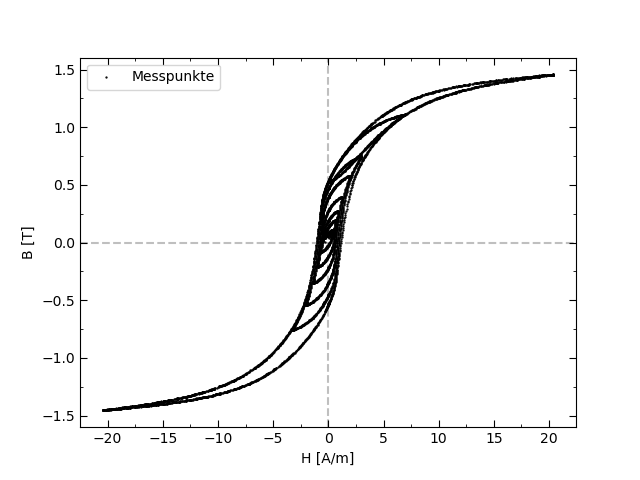
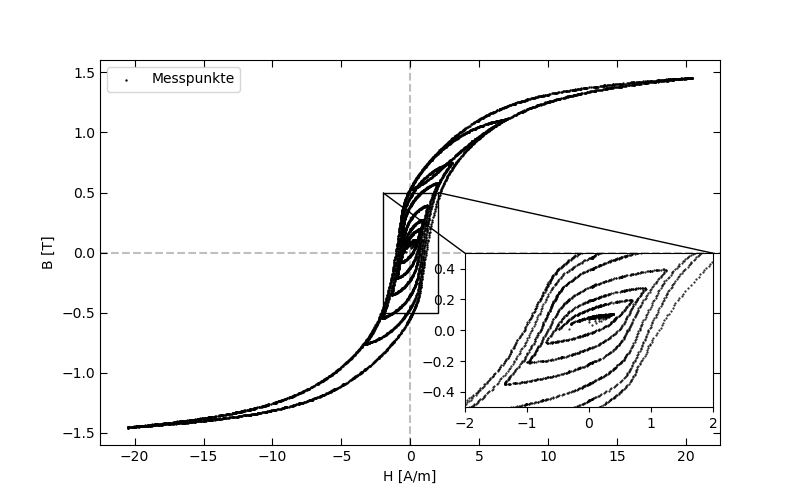
subplots und pfeile

diff --git a/39/Auswertung/Kern3_entmag.py b/39/Auswertung/Kern3_entmag.py
@@ -3,6 +3,9 @@ from importer import Messreihe
 from scatterplt import ScatterPlotter
 import matplotlib.pyplot as plt
 import numpy as np
+from mpl_toolkits.axes_grid1.inset_locator import inset_axes, mark_inset
+from matplotlib.ticker import AutoMinorLocator
+
 
 def symmetric(dataX, dataY, symPX=1000):
     dataX = np.asarray(dataX)
@@ -72,7 +75,21 @@ DataH = Data3.iloc[:, 1]
 DataB = Data3.iloc[:,2] - B_Shift
 print('Symmetrisierungsfaktor Ringkern 1: ' + str(B_Shift) + 'T')
 
-plt3 = ScatterPlotter(xlabel='H [A/m]', ylabel='B [T]')
-plt3.plot(DataH, DataB, grid=False, label='Messpunkte', xlim=False, ylim=False, size=0.4)
-plt3.save(img_path / 'Hyster3_entmag.png')
-plt3.show()
+
+fig, plt3 = plt.subplots(figsize=(8,5))
+plt3.scatter(DataH, DataB, label='Messpunkte', c='black', s=0.5, zorder=4)
+plt3.axvline(x=0, color='grey', linestyle='--', zorder=1, alpha=0.5)
+plt3.axhline(y=0, color='grey', linestyle='--', zorder=1, alpha=0.5)
+plt3.set_xlabel('H [A/m]')
+plt3.set_ylabel(ylabel='B [T]')
+plt3.tick_params(axis='both', which='minor', direction='in', right=True, top=True)
+plt3.tick_params(axis='both', which='major', direction='in', right=True, top=True, length=5)
+plt3.legend()
+
+plt3in = inset_axes(plt3, width='40%', height='40%', loc='lower right',bbox_to_anchor=(0, 0.08, 1, 1), bbox_transform=plt3.transAxes)
+plt3in.scatter(DataH, DataB, c='black', marker='.', s=1)
+plt3in.set_xlim(-2,2)
+plt3in.set_ylim(-0.5, 0.5)
+mark_inset(plt3, plt3in, loc1=1, loc2=2, lw=1)
+plt.savefig(img_path / 'Hyster3_entmag.png')
+plt.show()

diff --git a/39/Auswertung/Kern3_Irre.py b/39/Auswertung/Kern3_Irre.py
@@ -88,6 +88,49 @@ plt3.legend()
 
 plt3in = inset_axes(plt3, width='40%', height='40%', loc='lower right',bbox_to_anchor=(0, 0.08, 1, 1), bbox_transform=plt3.transAxes)
 plt3in.scatter(DataH, DataB, c='black', marker='.', s=1)
+plt3in.annotate('',
+    xy=(3.496, 1.07),     # Pfeilspitze (H, B)
+    xytext=(4.164, 1.129), # Pfeilanfang (H, B)
+    arrowprops=dict(
+        arrowstyle='->',
+        color='red',
+        lw=2
+    ),
+    zorder=10
+)
+plt3in.annotate(
+    '',
+    xy=(4.346, 0.981),     # Pfeilspitze (H, B)
+    xytext=(3.865, 0.965), # Pfeilanfang (H, B)
+    arrowprops=dict(
+        arrowstyle='->',
+        color='red',
+        lw=2
+    ),
+    zorder=10
+)
+plt3in.annotate(
+    '',
+    xy=(4.954, 1.083),     # Pfeilspitze (H, B)
+    xytext=(5.387, 1.094), # Pfeilanfang (H, B)
+    arrowprops=dict(
+        arrowstyle='->',
+        color='blue',
+        lw=2
+    ),
+    zorder=10
+)
+plt3in.annotate(
+    '',
+    xy=(2.512, 0.9449),     # Pfeilspitze (H, B)
+    xytext=(2.927, 0.995), # Pfeilanfang (H, B)
+    arrowprops=dict(
+        arrowstyle='->',
+        color='blue',
+        lw=2
+    ),
+    zorder=10
+)
 plt3in.set_xlim(2,6.5)
 plt3in.set_ylim(0.8, 1.2)
 mark_inset(plt3, plt3in, loc1=1, loc2=2, lw=1)

diff --git a/39/Auswertung/arrowtest.py b/39/Auswertung/arrowtest.py
@@ -1,0 +1,23 @@
+import matplotlib.pyplot as plt
+import numpy as np
+
+H = np.array([-2, -1, 0, 1, 2, 1, 0, -1, -2])
+B = np.array([-1, -0.5, 0, 0.8, 1, 0.6, 0, -0.6, -1])
+
+plt.plot(H, B, 'k')
+
+plt.annotate(
+    '',
+    xy=(0.8, 0.9),      # Pfeilspitze
+    xytext=(0.2, 0.6),  # Pfeilanfang
+    arrowprops=dict(
+        arrowstyle='->',
+        color='red',
+        lw=2
+    )
+)
+
+
+plt.xlabel('H')
+plt.ylabel('B')
+plt.show()
